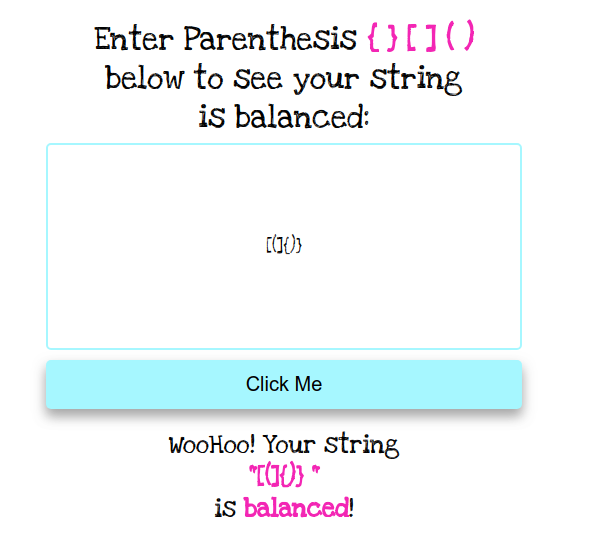
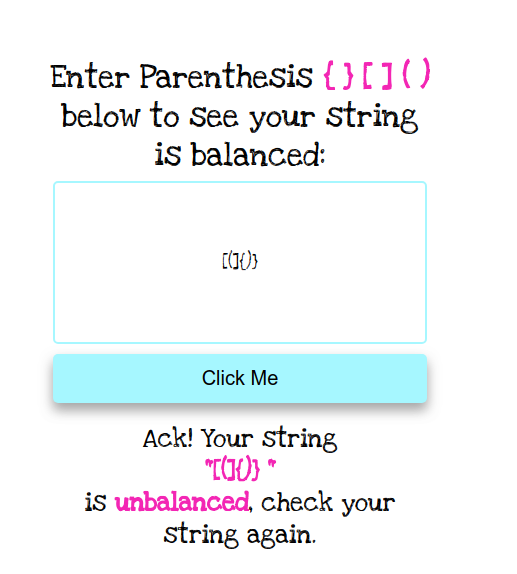
app.js modified

Changed region(s): [[0.0619, 0.0305, 0.8665, 0.9749], [0.4333, 0.4265, 0.4952, 0.4875]]

diff --git a/app.js b/app.js
@@ -17,15 +17,16 @@ function isBalanced() {
   let stack = [];
 
   let inputVal = inputParen.value;
-  let inputValArr = inputVal.split("");
 
-  inputValArr.forEach(val => {
+  for (let i=0; i<inputVal.length; i++) {
+    let val = inputVal[i];
+    
     if (openParen[val]) {
       stack.push(val);
     }else if (closedParen[val]) {
       if (openParen[stack.pop()] !== val) return printResult(false);
     }
-  });
+  }
 
   let result = stack.length === 0 ? true : false;
   printResult(result);
